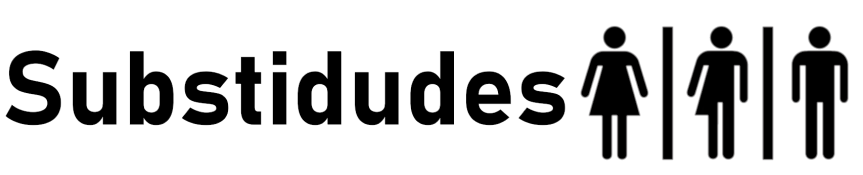
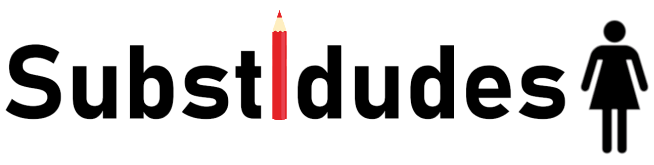
Korjattu logoa

Changed region(s): [[0.0, 0.0909, 1.0, 0.9394]]

diff --git a/src/komponentit/etusivu/Etusivu.js b/src/komponentit/etusivu/Etusivu.js
@@ -4,7 +4,7 @@ import './sivupalkki/sivupalkki.css';
 import Popup from 'reactjs-popup';
 import BurgerIkoni from './sivupalkki/BurgerIkoni';
 import Valikko from './sivupalkki/Valikko';
-import Substidudes from './substidudes.png'
+import Substidudes2 from './substidudes2.png'
 
 // Valikkoon liittyviä tyylityksiä
 const styles = {
@@ -25,7 +25,7 @@ class Etusivu extends Component {
     return (
       <div>
         <div style={styles}>
-            <img src={Substidudes}/>
+            <img src={Substidudes2}/>
           {/* <Sivupalkki /> */}
 
         <Popup 
